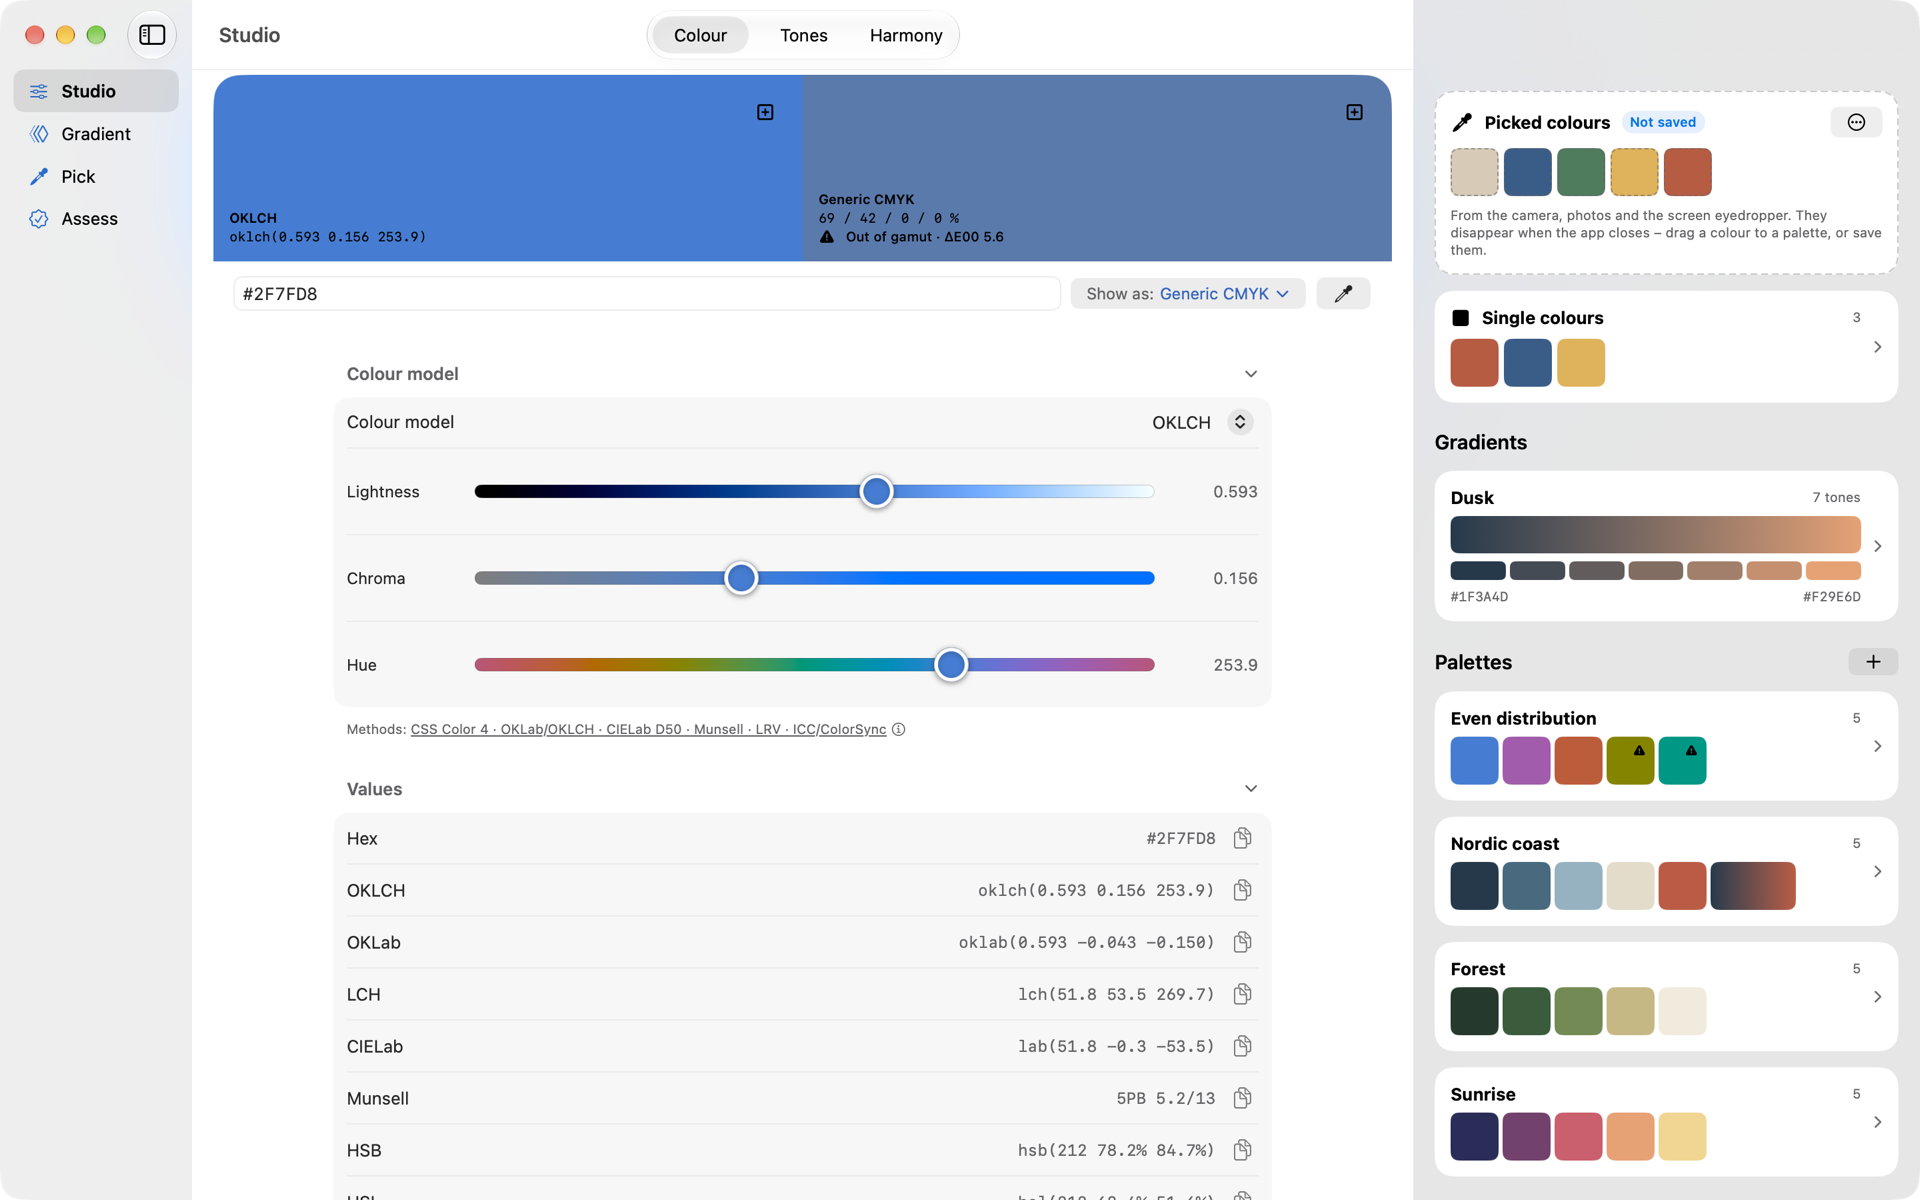
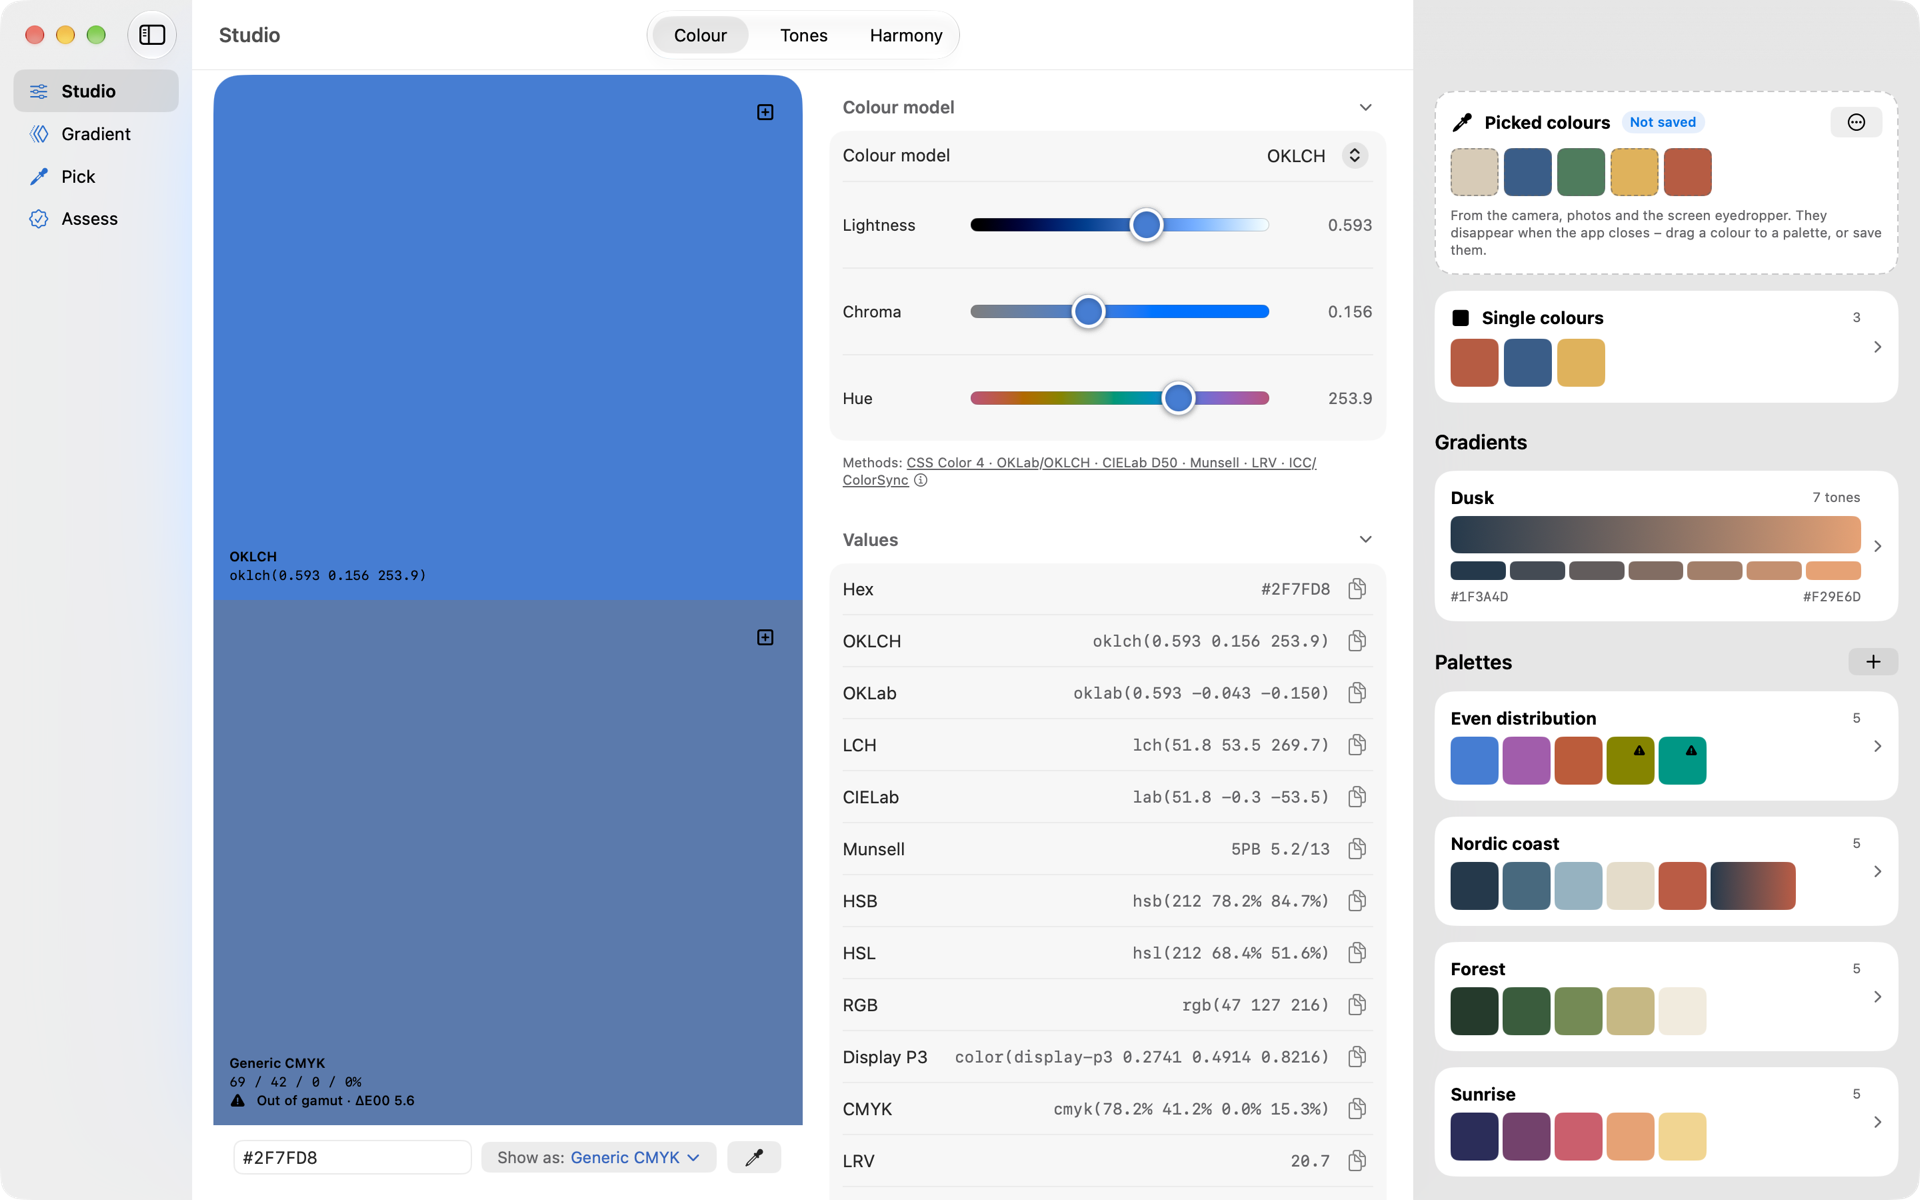
1.2: nye skjermbilder (iPhone, iPad, Mac; nb/en) med «Se i lys», og oppdatert nettsidetekst
- Overganger og toner i fargefeltene med verdier i valgt fargemodell, dra grunntonen på lyshetsstigen,
  fargesynsavvik etter utbredelse, bred visning på Mac.

diff --git a/web/1.2/en/index.html b/web/1.2/en/index.html
@@ -83,7 +83,7 @@
     <section class="seksjon" aria-labelledby="funksjoner">
       <h2 id="funksjoner">Features</h2>
       <p class="dempet">What’s new in version 1.2 is marked<span class="nytt">New in 1.2</span></p>
-      <p class="lesetekst">Kolorist is designed for iPhone first. On iPad and Mac you get more room – in landscape on iPad the colour swatches sit beside the tools – and on the Mac an eyedropper that picks colours from anywhere on screen. On Mac and large iPads your palettes are at hand while you work, and you move colours where you need them with drag and drop. Colours you pick from the camera and photos are kept – clearly marked as not saved – until you decide.</p>
+      <p class="lesetekst">Kolorist is designed for iPhone first. On iPad and Mac you get more room – in landscape on iPad and in a wide Mac window the colour swatches sit beside the tools <span class="nytt">New in 1.2</span> – and on the Mac an eyedropper that picks colours from anywhere on screen. On Mac and large iPads your palettes are at hand while you work, and you move colours where you need them with drag and drop. Colours you pick from the camera and photos are kept – clearly marked as not saved – until you decide.</p>
 
       <ul class="kort-rutenett">
         <li>
@@ -123,6 +123,8 @@
               <li>Save whole gradients and pick up where you left off</li>
               <li>Add gradients to palettes</li>
               <li>Copy the gradient straight into design, layout and presentation apps</li>
+              <li>The tones are shown in the swatches with values in the chosen colour model and colour space <span class="nytt">New in 1.2</span></li>
+              <li>Drag the base tones on the lightness scale to make the whole gradient lighter or darker <span class="nytt">New in 1.2</span></li>
             </ul>
           </article>
         </li>
@@ -137,7 +139,8 @@
               <li>Saturation and lightness for the whole harmony, shown right in the colour wheel</li>
               <li>See the whole harmony in the chosen colour space or colour library, with the base colour clearly marked</li>
               <li>The colour-wheel values for each colour in the harmony – Munsell notation, OKLCH, LCH, HSL, RYB or Hering’s unique hues <span class="nytt">New in 1.2</span></li>
-              <li>Lighter and darker tones in equal or easing steps</li>
+              <li>Lighter and darker tones in equal or easing steps, shown in the swatches with values in the chosen colour model <span class="nytt">New in 1.2</span></li>
+              <li>Drag the base colour on the lightness scale to make the whole row lighter or darker <span class="nytt">New in 1.2</span></li>
             </ul>
           </article>
         </li>
@@ -178,6 +181,7 @@
               <li>Palette critique in different light: colours that change character, and colour pairs that become hard to tell apart <span class="nytt">New in 1.2</span></li>
               <li>The difference between two colours with ΔE2000</li>
               <li>See the palette with protan, deutan and tritan deficiencies and achromatopsia, at any severity – and which colours become hard to tell apart</li>
+              <li>Colour vision deficiencies listed by how common they are, with estimated prevalence <span class="nytt">New in 1.2</span></li>
               <li>Camera with a colour vision filter: see your surroundings as they may appear with each deficiency</li>
             </ul>
           </article>
@@ -334,32 +338,38 @@
       <ul class="skjermbilder" tabindex="0" aria-label="Screenshots – scroll sideways">
         <li>
           <figure class="skjermbilde">
-            <img src="../assets/en/skjermbilde-studio.png?v=4" alt="Studio showing a colour in OKLCH and Display P3 side by side with CMYK" width="1284" height="2778" loading="lazy">
+            <img src="../assets/en/skjermbilde-studio.png?v=5" alt="Studio showing a colour in OKLCH and Display P3 side by side with CMYK" width="1284" height="2778" loading="lazy">
             <figcaption>Studio</figcaption>
           </figure>
         </li>
         <li>
           <figure class="skjermbilde">
-            <img src="../assets/en/skjermbilde-harmoni.png?v=4" alt="Colour harmony with swatches above the colour wheel" width="1284" height="2778" loading="lazy">
+            <img src="../assets/en/skjermbilde-harmoni.png?v=5" alt="Colour harmony with swatches above the colour wheel" width="1284" height="2778" loading="lazy">
             <figcaption>Harmony</figcaption>
           </figure>
         </li>
         <li>
           <figure class="skjermbilde">
-            <img src="../assets/en/skjermbilde-overgang.png" alt="Gradient between two colours in equal perceptual steps, with lighter and darker rows" width="1284" height="2778" loading="lazy">
+            <img src="../assets/en/skjermbilde-overgang.png?v=5" alt="Gradient between two colours in equal perceptual steps, with lighter and darker rows" width="1284" height="2778" loading="lazy">
             <figcaption>Gradient</figcaption>
           </figure>
         </li>
         <li>
           <figure class="skjermbilde">
-            <img src="../assets/en/skjermbilde-kontrast.png" alt="Contrast between text colour and background, checked against WCAG AA and AAA" width="1284" height="2778" loading="lazy">
+            <img src="../assets/en/skjermbilde-kontrast.png?v=5" alt="Contrast between text colour and background, checked against WCAG AA and AAA" width="1284" height="2778" loading="lazy">
             <figcaption>Contrast</figcaption>
           </figure>
         </li>
         <li>
           <figure class="skjermbilde">
-            <img src="../assets/en/skjermbilde-fargesyn.png" alt="A palette as it appears with different colour vision deficiencies" width="1284" height="2778" loading="lazy">
+            <img src="../assets/en/skjermbilde-fargesyn.png?v=5" alt="A palette as it appears with different colour vision deficiencies" width="1284" height="2778" loading="lazy">
             <figcaption>Colour vision</figcaption>
+          </figure>
+        </li>
+        <li>
+          <figure class="skjermbilde">
+            <img src="../assets/en/skjermbilde-lys.png?v=5" alt="See in light: the colour on screen beside the colour as it appears in a viewing condition" width="1284" height="2778" loading="lazy">
+            <figcaption>See in light</figcaption>
           </figure>
         </li>
       </ul>
@@ -368,32 +378,38 @@
         <ul class="karusell-bilder">
         <li>
           <figure class="skjermbilde mac">
-            <img src="../assets/en/mac/skjermbilde-studio.png?v=4" alt="Studio on Mac with the colour in OKLCH and Generic CMYK, its values, and the palettes and picked colours beside it" width="1920" height="1200" loading="lazy">
+            <img src="../assets/en/mac/skjermbilde-studio.png?v=5" alt="Studio on Mac with the colour in OKLCH and Generic CMYK, its values, and the palettes and picked colours beside it" width="1920" height="1200" loading="lazy">
             <figcaption>Studio</figcaption>
           </figure>
         </li>
         <li>
           <figure class="skjermbilde mac">
-            <img src="../assets/en/mac/skjermbilde-harmoni.png?v=4" alt="Harmony on Mac: five colours evenly distributed on the colour wheel" width="1920" height="1200" loading="lazy">
+            <img src="../assets/en/mac/skjermbilde-harmoni.png?v=5" alt="Harmony on Mac: five colours evenly distributed on the colour wheel" width="1920" height="1200" loading="lazy">
             <figcaption>Harmony</figcaption>
           </figure>
         </li>
         <li>
           <figure class="skjermbilde mac">
-            <img src="../assets/en/mac/skjermbilde-overgang.png" alt="Gradient on Mac in equal perceptual steps, with lighter and darker rows" width="1920" height="1200" loading="lazy">
+            <img src="../assets/en/mac/skjermbilde-overgang.png?v=5" alt="Gradient on Mac in equal perceptual steps, with lighter and darker rows" width="1920" height="1200" loading="lazy">
             <figcaption>Gradient</figcaption>
           </figure>
         </li>
         <li>
           <figure class="skjermbilde mac">
-            <img src="../assets/en/mac/skjermbilde-kontrast.png" alt="Contrast on Mac: text and graphics to WCAG 2.2 and surfaces by LRV" width="1920" height="1200" loading="lazy">
+            <img src="../assets/en/mac/skjermbilde-kontrast.png?v=5" alt="Contrast on Mac: text and graphics to WCAG 2.2 and surfaces by LRV" width="1920" height="1200" loading="lazy">
             <figcaption>Contrast</figcaption>
           </figure>
         </li>
         <li>
           <figure class="skjermbilde mac">
-            <img src="../assets/en/mac/skjermbilde-fargesyn.png" alt="Colour vision on Mac: the palette with four types of colour vision deficiency and hard-to-tell pairs" width="1920" height="1200" loading="lazy">
+            <img src="../assets/en/mac/skjermbilde-fargesyn.png?v=5" alt="Colour vision on Mac: the palette with four types of colour vision deficiency and hard-to-tell pairs" width="1920" height="1200" loading="lazy">
             <figcaption>Colour vision</figcaption>
+          </figure>
+        </li>
+        <li>
+          <figure class="skjermbilde mac">
+            <img src="../assets/en/mac/skjermbilde-lys.png?v=5" alt="See in light on Mac: the colour on screen beside the colour in a viewing condition, with the colour shift" width="1920" height="1200" loading="lazy">
+            <figcaption>See in light</figcaption>
           </figure>
         </li>
         </ul>

diff --git a/web/1.2/index.html b/web/1.2/index.html
@@ -83,7 +83,7 @@
     <section class="seksjon" aria-labelledby="funksjoner">
       <h2 id="funksjoner">Funksjoner</h2>
       <p class="dempet">Det som er nytt i versjon 1.2, er merket<span class="nytt">Nytt i 1.2</span></p>
-      <p class="lesetekst">Kolorist er laget for iPhone først. På iPad og Mac får du mer plass – i liggende format på iPad ligger fargeflatene ved siden av verktøyene – og på Mac en pipette som plukker farger fra hele skjermen. På Mac og store iPader har du palettene for hånden mens du jobber, og flytter farger dit du trenger dem med dra og slipp. Farger du plukker fra kamera og bilder, tas vare på – tydelig merket som ikke lagret – til du bestemmer deg.</p>
+      <p class="lesetekst">Kolorist er laget for iPhone først. På iPad og Mac får du mer plass – i liggende format på iPad og i et bredt Mac-vindu ligger fargeflatene ved siden av verktøyene <span class="nytt">Nytt i 1.2</span> – og på Mac en pipette som plukker farger fra hele skjermen. På Mac og store iPader har du palettene for hånden mens du jobber, og flytter farger dit du trenger dem med dra og slipp. Farger du plukker fra kamera og bilder, tas vare på – tydelig merket som ikke lagret – til du bestemmer deg.</p>
 
       <ul class="kort-rutenett">
         <li>
@@ -123,6 +123,8 @@
               <li>Lagre hele gradienter og fortsett arbeidet senere</li>
               <li>Legg gradienter i paletter</li>
               <li>Kopier gradienter rett inn i design-, layout- og presentasjonsprogrammer</li>
+              <li>Tonene vises i fargefeltene med verdier i valgt fargemodell og fargerom <span class="nytt">Nytt i 1.2</span></li>
+              <li>Dra grunntonene på lyshetsstigen for å gjøre hele overgangen lysere eller mørkere <span class="nytt">Nytt i 1.2</span></li>
             </ul>
           </article>
         </li>
@@ -137,7 +139,8 @@
               <li>Metning og lyshet for hele harmonier, vist direkte i fargesirkelen</li>
               <li>Se hele harmonier i valgt fargerom eller fargebibliotek, med grunnfarger tydelig merket</li>
               <li>Verdiene fra fargesirkelen for hver farge i harmonien – Munsell-notasjon, OKLCH, LCH, HSL, RYB eller Herings elementærfarger <span class="nytt">Nytt i 1.2</span></li>
-              <li>Lysere og mørkere toner i like eller avtagende steg</li>
+              <li>Lysere og mørkere toner i like eller avtagende steg, vist i fargefeltene med verdier i valgt fargemodell <span class="nytt">Nytt i 1.2</span></li>
+              <li>Dra grunnfargen på lyshetsstigen for å gjøre hele rekken lysere eller mørkere <span class="nytt">Nytt i 1.2</span></li>
             </ul>
           </article>
         </li>
@@ -178,6 +181,7 @@
               <li>Vurdering av paletter i ulike lys: farger som skifter karakter, og fargepar som blir vanskelige å skille <span class="nytt">Nytt i 1.2</span></li>
               <li>Forskjellen mellom to farger med ΔE2000</li>
               <li>Se paletter med protan-, deutan- og tritanavvik og akromatopsi, med valgfri alvorlighetsgrad – og hvilke farger som blir vanskelige å skille</li>
+              <li>Fargesynsavvikene står etter hvor vanlige de er, med anslått utbredelse <span class="nytt">Nytt i 1.2</span></li>
               <li>Kamera med fargesynsfilter: se omgivelsene slik de kan oppleves med hvert avvik</li>
             </ul>
           </article>
@@ -333,32 +337,38 @@
       <ul class="skjermbilder" tabindex="0" aria-label="Skjermbilder – rull sidelengs">
         <li>
           <figure class="skjermbilde">
-            <img src="assets/skjermbilde-studio.png?v=4" alt="Studio med en farge i OKLCH og Display P3 side om side med CMYK" width="1284" height="2778" loading="lazy">
+            <img src="assets/skjermbilde-studio.png?v=5" alt="Studio med en farge i OKLCH og Display P3 side om side med CMYK" width="1284" height="2778" loading="lazy">
             <figcaption>Studio</figcaption>
           </figure>
         </li>
         <li>
           <figure class="skjermbilde">
-            <img src="assets/skjermbilde-harmoni.png?v=4" alt="Fargeharmoni med fargeprøver over fargesirkelen" width="1284" height="2778" loading="lazy">
+            <img src="assets/skjermbilde-harmoni.png?v=5" alt="Fargeharmoni med fargeprøver over fargesirkelen" width="1284" height="2778" loading="lazy">
             <figcaption>Harmoni</figcaption>
           </figure>
         </li>
         <li>
           <figure class="skjermbilde">
-            <img src="assets/skjermbilde-overgang.png" alt="Overgang mellom to farger i like perseptuelle steg, med lysere og mørkere rader" width="1284" height="2778" loading="lazy">
+            <img src="assets/skjermbilde-overgang.png?v=5" alt="Overgang mellom to farger i like perseptuelle steg, med lysere og mørkere rader" width="1284" height="2778" loading="lazy">
             <figcaption>Overgang</figcaption>
           </figure>
         </li>
         <li>
           <figure class="skjermbilde">
-            <img src="assets/skjermbilde-kontrast.png" alt="Kontrast mellom tekstfarge og bakgrunn, vurdert mot WCAG AA og AAA" width="1284" height="2778" loading="lazy">
+            <img src="assets/skjermbilde-kontrast.png?v=5" alt="Kontrast mellom tekstfarge og bakgrunn, vurdert mot WCAG AA og AAA" width="1284" height="2778" loading="lazy">
             <figcaption>Kontrast</figcaption>
           </figure>
         </li>
         <li>
           <figure class="skjermbilde">
-            <img src="assets/skjermbilde-fargesyn.png" alt="En palett slik den ser ut med ulike fargesynsavvik" width="1284" height="2778" loading="lazy">
+            <img src="assets/skjermbilde-fargesyn.png?v=5" alt="En palett slik den ser ut med ulike fargesynsavvik" width="1284" height="2778" loading="lazy">
             <figcaption>Fargesyn</figcaption>
+          </figure>
+        </li>
+        <li>
+          <figure class="skjermbilde">
+            <img src="assets/skjermbilde-lys.png?v=5" alt="Se i lys: fargen på skjermen ved siden av fargen slik den oppleves i et lysmiljø" width="1284" height="2778" loading="lazy">
+            <figcaption>Se i lys</figcaption>
           </figure>
         </li>
       </ul>
@@ -367,32 +377,38 @@
         <ul class="karusell-bilder">
         <li>
           <figure class="skjermbilde mac">
-            <img src="assets/mac/skjermbilde-studio.png?v=4" alt="Studio på Mac med fargen i OKLCH og Generisk CMYK, verdiene, og palettene og de plukkede fargene ved siden av" width="1920" height="1200" loading="lazy">
+            <img src="assets/mac/skjermbilde-studio.png?v=5" alt="Studio på Mac med fargen i OKLCH og Generisk CMYK, verdiene, og palettene og de plukkede fargene ved siden av" width="1920" height="1200" loading="lazy">
             <figcaption>Studio</figcaption>
           </figure>
         </li>
         <li>
           <figure class="skjermbilde mac">
-            <img src="assets/mac/skjermbilde-harmoni.png?v=4" alt="Harmoni på Mac: fem farger jevnt fordelt på fargesirkelen" width="1920" height="1200" loading="lazy">
+            <img src="assets/mac/skjermbilde-harmoni.png?v=5" alt="Harmoni på Mac: fem farger jevnt fordelt på fargesirkelen" width="1920" height="1200" loading="lazy">
             <figcaption>Harmoni</figcaption>
           </figure>
         </li>
         <li>
           <figure class="skjermbilde mac">
-            <img src="assets/mac/skjermbilde-overgang.png" alt="Overgang på Mac i like perseptuelle steg, med lysere og mørkere rader" width="1920" height="1200" loading="lazy">
+            <img src="assets/mac/skjermbilde-overgang.png?v=5" alt="Overgang på Mac i like perseptuelle steg, med lysere og mørkere rader" width="1920" height="1200" loading="lazy">
             <figcaption>Overgang</figcaption>
           </figure>
         </li>
         <li>
           <figure class="skjermbilde mac">
-            <img src="assets/mac/skjermbilde-kontrast.png" alt="Kontrast på Mac: tekst og grafikk etter WCAG 2.2 og flater etter LRV" width="1920" height="1200" loading="lazy">
+            <img src="assets/mac/skjermbilde-kontrast.png?v=5" alt="Kontrast på Mac: tekst og grafikk etter WCAG 2.2 og flater etter LRV" width="1920" height="1200" loading="lazy">
             <figcaption>Kontrast</figcaption>
           </figure>
         </li>
         <li>
           <figure class="skjermbilde mac">
-            <img src="assets/mac/skjermbilde-fargesyn.png" alt="Fargesyn på Mac: paletten med fire typer fargesynsavvik og vanskelige fargepar" width="1920" height="1200" loading="lazy">
+            <img src="assets/mac/skjermbilde-fargesyn.png?v=5" alt="Fargesyn på Mac: paletten med fire typer fargesynsavvik og vanskelige fargepar" width="1920" height="1200" loading="lazy">
             <figcaption>Fargesyn</figcaption>
+          </figure>
+        </li>
+        <li>
+          <figure class="skjermbilde mac">
+            <img src="assets/mac/skjermbilde-lys.png?v=5" alt="Se i lys på Mac: fargen på skjermen ved siden av fargen i et lysmiljø, med fargeskift" width="1920" height="1200" loading="lazy">
+            <figcaption>Se i lys</figcaption>
           </figure>
         </li>
         </ul>

diff --git a/Dokumentasjon/1.2/AppStore.md b/Dokumentasjon/1.2/AppStore.md
@@ -9,7 +9,9 @@ Utgangspunktet er tekstene for 1.1 (`Dokumentasjon/1.1/AppStore.md`). Endringer 
 - [x] Kameraforklaringen (systemspørsmålet) nevner nå lysmåling.
 - [ ] Personvernetiketten er uendret («Data Not Collected»): lysmiljøer, referansekort og kameraprofiler ligger i
       brukerens egen iCloud (nøkkel–verdi), og stillbildet av kortet brukes bare på enheten.
-- [ ] Skjermbilder – tas på nytt hvis grensesnittet endres.
+- [x] Skjermbilder i `Dokumentasjon/1.2/Skjermbilder/` (iPhone 6,5″, iPad 13″, Mac; nb og en): Studio, Harmoni,
+      Overgang, Kontrast, Fargesyn og «Se i lys». Tatt med `-skjermbilde YES` og samme argumenter som for 1.1;
+      «Se i lys» med `-panelFørst lys`. Mac med `-testmaalinger YES -kunSRGB NO`.
 
 ### Utkast: Nytt i 1.2 – iPhone og iPad, norsk
 
